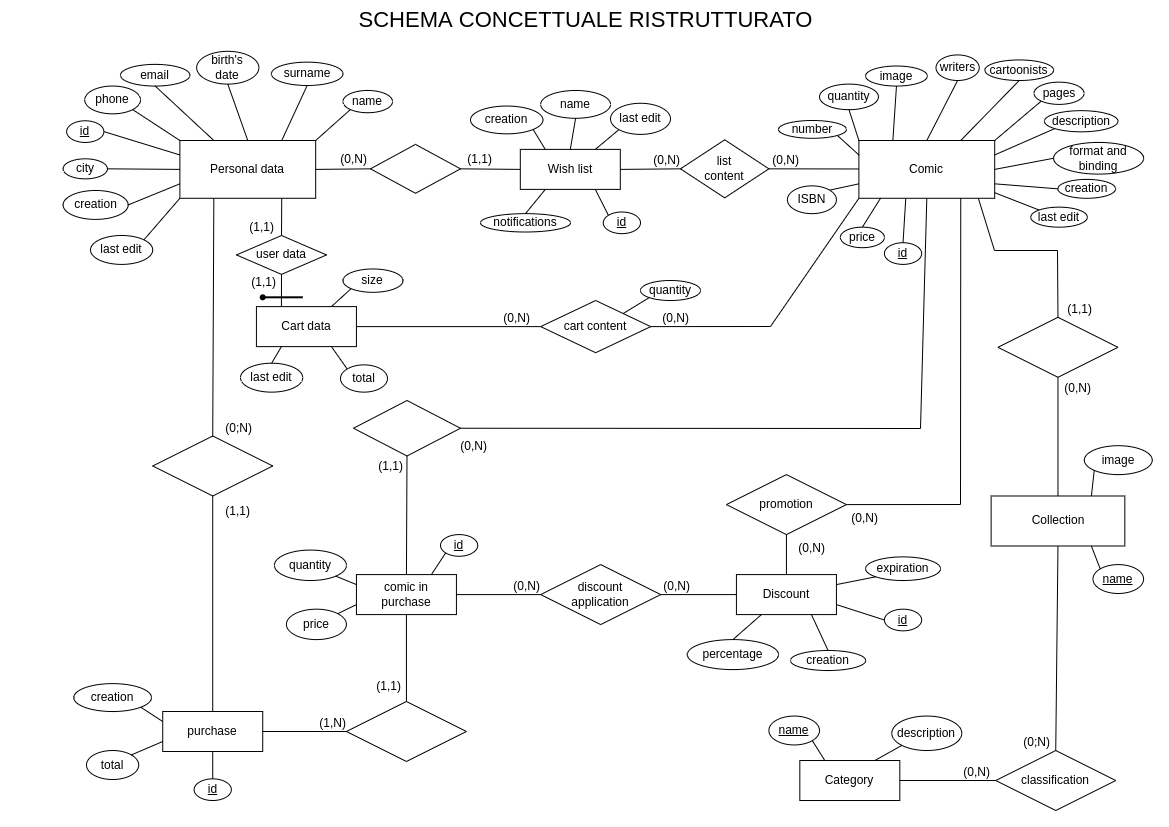
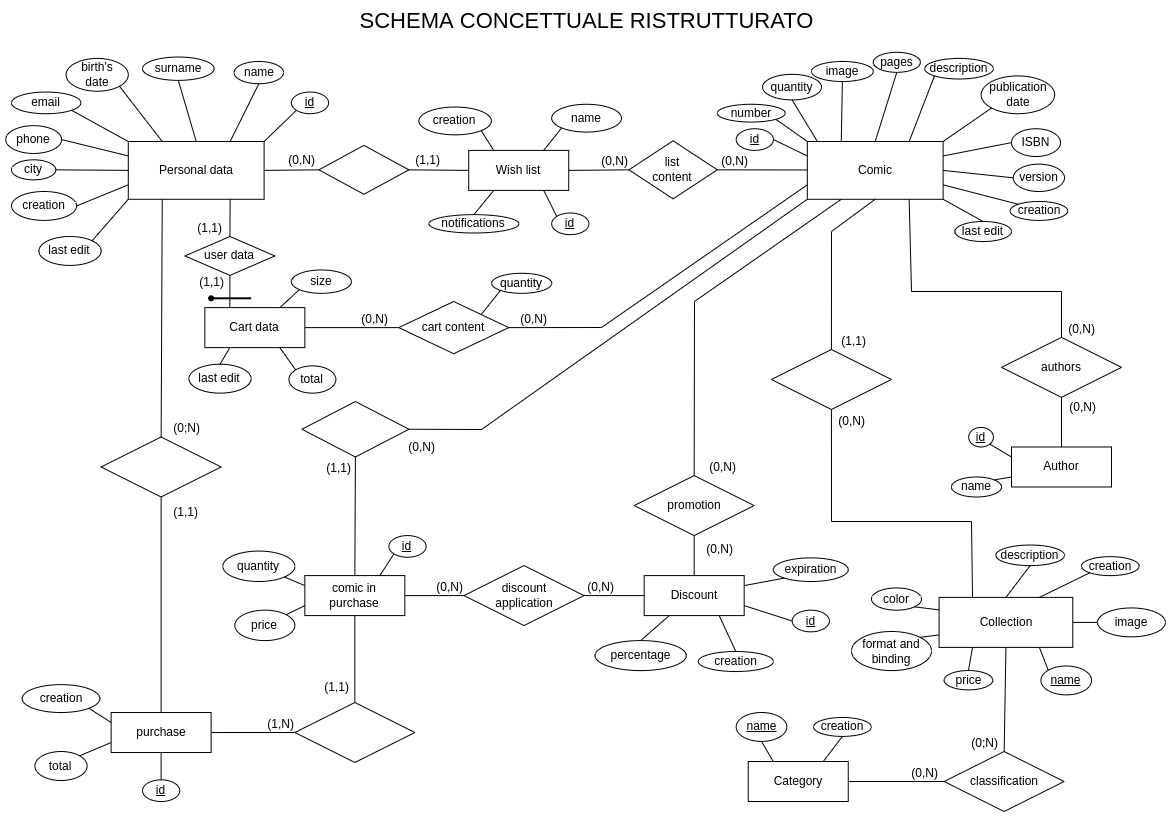
Modificato il database spostando molti degli attributi da comic a collection e creando l'entità author; Nel mapping Java bisogna fare la relazione che lega il cart a comic

diff --git a/src/main/java/im/enricods/ComicsStore/entities/Comic.java b/src/main/java/im/enricods/ComicsStore/entities/Comic.java
@@ -3,7 +3,6 @@ package im.enricods.ComicsStore.entities;
 import java.util.Date;
 import java.util.Set;
 
-import javax.persistence.Basic;
 import javax.persistence.Column;
 import javax.persistence.Entity;
 import javax.persistence.GeneratedValue;
@@ -27,25 +26,21 @@ import lombok.Data;
 
 @Data
 @Entity
-@Table(name = "comic", schema = "public")
+@Table(name = "comic")
 public class Comic {
     
     @Id
     @GeneratedValue(strategy = GenerationType.AUTO)
-    @Column(name = "id", nullable = false)
+    @Column(name = "id")
     private long id;
 
     @ManyToOne
     @JoinColumn(name = "collection")
     private Collection collection;
 
-    @Basic
+    
     @Column(name = "number", nullable = false)
     private int number;
-
-    @Basic
-    @Column(name = "price", nullable = false)
-    private float price;
 
     @ManyToMany
     @JoinTable(
@@ -55,35 +50,29 @@ public class Comic {
     )
     private Set<Discount> discounts;
 
-    @Basic
+    
     @Column(name = "quantity", nullable = false)
     private int quantity;
 
-    @Basic
+    
     @Column(name = "image", length = 100)
     private String image;
 
-    @Basic
-    @Column(name = "writers", length = 50)
-    private String writers;
+    @ManyToMany(mappedBy = "works")
+    private Set<Author> authors;
 
-    @Basic
-    @Column(name = "cartoonists", length = 50)
-    private String cartoonists;
-
-    @Basic
-    @Column(name = "formatAndBinding", length = 30)
-    private String formatAndBinding;
-
-    @Basic
     @Column(name = "pages")
     private int pages;
 
-    @Basic
+    @Temporal(TemporalType.DATE)
+    @Column(name = "publication_date")
+    private Date publicationDate;
+
+    
     @Column(name = "isbn", length = 13, unique = true, nullable = false)
     private String isbn;
 
-    @Basic
+    
     @Column(name = "description", length = 200)
     private String description;
 
@@ -92,13 +81,13 @@ public class Comic {
     @JsonIgnore
     private long version;
 
-    @Basic
+    
     @CreationTimestamp
     @Temporal(TemporalType.TIMESTAMP)
     @Column(name = "created_at", nullable = false)
     private Date createdAt;
 
-    @Basic
+    
     @Temporal(TemporalType.TIMESTAMP)
     @Column(name = "modified_at", nullable = false)
     private Date modifiedAt;

diff --git a/src/main/java/im/enricods/ComicsStore/entities/User.java b/src/main/java/im/enricods/ComicsStore/entities/User.java
@@ -3,7 +3,6 @@ package im.enricods.ComicsStore.entities;
 import java.util.Date;
 import java.util.Set;
 
-import javax.persistence.Basic;
 import javax.persistence.CascadeType;
 import javax.persistence.Column;
 import javax.persistence.Entity;
@@ -17,6 +16,7 @@ import javax.persistence.Temporal;
 import javax.persistence.TemporalType;
 
 import org.hibernate.annotations.CreationTimestamp;
+import org.hibernate.annotations.UpdateTimestamp;
 
 import lombok.Data;
 
@@ -30,37 +30,41 @@ public class User {
     @Column(name = "id", nullable = false)
     private long id;
 
-    @Basic
+    
     @Column(name = "first_name", nullable = false, length = 50)
     private String firstName;
 
-    @Basic
+    
     @Column(name = "last_name", nullable = false, length = 50)    
     private String lastName;
 
-    @Basic
+    @Temporal(TemporalType.DATE)
+    @Column(name = "birth_date", nullable = false)
+    private Date birthDate;
+
+    
     @Column(name = "email", nullable = false, unique = true, length = 90)
     private String email;
 
-    @Basic
+    
     @Column(name = "phone_number", length = 20)
     private String phoneNumber;
 
-    @Basic
+    
     @Column(name = "address", length = 50)
     private String address;
 
-    @Basic
+    
     @Column(name = "city", length = 30)
     private String city;
 
-    @Basic
+    
     @CreationTimestamp
     @Temporal(TemporalType.TIMESTAMP)
     @Column(name = "created_at", nullable = false)
     private Date createdAt;
 
-    @Basic
+    @UpdateTimestamp
     @Temporal(TemporalType.TIMESTAMP)
     @Column(name = "modified_at", nullable = false)
     private Date modifiedAt;
@@ -68,7 +72,7 @@ public class User {
     @OneToOne(mappedBy = "user")
     private Cart cart;
 
-    @OneToMany(/*targetEntity = WishList.class,*/ mappedBy = "owner")
+    @OneToMany( mappedBy = "owner")
     private Set<WishList> wishLists;
 
     @OneToMany(mappedBy = "buyer")

diff --git a/src/main/java/im/enricods/ComicsStore/entities/Category.java b/src/main/java/im/enricods/ComicsStore/entities/Category.java
@@ -1,13 +1,17 @@
 package im.enricods.ComicsStore.entities;
 
+import java.util.Date;
 import java.util.Set;
 
-import javax.persistence.Basic;
 import javax.persistence.Column;
 import javax.persistence.Entity;
 import javax.persistence.Id;
 import javax.persistence.ManyToMany;
 import javax.persistence.Table;
+import javax.persistence.Temporal;
+import javax.persistence.TemporalType;
+
+import org.hibernate.annotations.CreationTimestamp;
 
 import lombok.Data;
 
@@ -20,9 +24,10 @@ public class Category {
     @Column(name = "name", nullable = false, length = 50)
     private String name;
 
-    @Basic
-    @Column(name = "description",nullable = false, length = 200)
-    private String description;
+    @CreationTimestamp
+    @Temporal(TemporalType.TIMESTAMP)
+    @Column(name = "created_at",nullable = false)
+    private Date createdAt;
 
     @ManyToMany(targetEntity = Collection.class,  mappedBy = "categories")
     private Set<Collection> collections;

diff --git a/src/main/java/im/enricods/ComicsStore/entities/WishList.java b/src/main/java/im/enricods/ComicsStore/entities/WishList.java
@@ -3,7 +3,6 @@ package im.enricods.ComicsStore.entities;
 import java.util.Date;
 import java.util.Set;
 
-import javax.persistence.Basic;
 import javax.persistence.Column;
 import javax.persistence.Entity;
 import javax.persistence.GeneratedValue;
@@ -35,11 +34,9 @@ public class WishList {
     @JoinColumn(name = "user_id")
     private User owner;
 
-    @Basic
     @Column(name = "name", nullable = false, length = 70)
     private String name;
 
-    @Basic
     @Column(name = "notifications")
     private boolean notifications;
 
@@ -50,15 +47,9 @@ public class WishList {
     )
     private Set<Comic> content;
 
-    @Basic
     @CreationTimestamp
     @Temporal(TemporalType.TIMESTAMP)
     @Column(name = "created_at", nullable = false)
     private Date createdAt;
 
-    @Basic
-    @Temporal(TemporalType.TIMESTAMP)
-    @Column(name = "modified_at", nullable = false)
-    private Date modifiedAt;
-
-}
+}//WishList

diff --git a/src/main/java/im/enricods/ComicsStore/entities/Author.java b/src/main/java/im/enricods/ComicsStore/entities/Author.java
@@ -1,0 +1,37 @@
+package im.enricods.ComicsStore.entities;
+
+import java.util.Set;
+
+import javax.persistence.Column;
+import javax.persistence.Entity;
+import javax.persistence.GeneratedValue;
+import javax.persistence.GenerationType;
+import javax.persistence.Id;
+import javax.persistence.JoinTable;
+import javax.persistence.JoinColumn;
+import javax.persistence.ManyToMany;
+import javax.persistence.Table;
+
+import lombok.Data;
+
+@Data
+@Entity
+@Table(name = "author")
+public class Author {
+    
+    @Id
+    @GeneratedValue(strategy = GenerationType.AUTO)
+    @Column(name = "id")
+    private long id;
+
+    @Column(name = "name", nullable = false, length = 30)
+    private String name;
+
+    @ManyToMany
+    @JoinTable(name = "authors",
+        joinColumns = {@JoinColumn(name = "author")},
+        inverseJoinColumns = {@JoinColumn(name = "comic")}
+    )
+    private Set<Comic> works;
+    
+}//Author

diff --git a/src/main/java/im/enricods/ComicsStore/entities/Cart.java b/src/main/java/im/enricods/ComicsStore/entities/Cart.java
@@ -3,7 +3,6 @@ package im.enricods.ComicsStore.entities;
 import java.util.Date;
 import java.util.Set;
 
-import javax.persistence.Basic;
 import javax.persistence.Column;
 import javax.persistence.Entity;
 import javax.persistence.Id;
@@ -17,7 +16,7 @@ import lombok.Data;
 
 @Data
 @Entity
-@Table(name = "cart_data", schema = "public")
+@Table(name = "cart_data")
 public class Cart {
     
     @Id
@@ -28,15 +27,15 @@ public class Cart {
     @JoinColumn(name = "user_id")
     private User user;
 
-    @Basic
+    
     @Column(name = "total", nullable = false)
     private float total;
 
-    @Basic
+    
     @Column(name = "size", nullable = false)
     private int size;
 
-    @Basic
+    
     @Temporal(TemporalType.TIMESTAMP)
     @Column(name = "modified_at", nullable = false)
     private Date modifiedAt;

diff --git a/src/main/java/im/enricods/ComicsStore/entities/Collection.java b/src/main/java/im/enricods/ComicsStore/entities/Collection.java
@@ -2,7 +2,6 @@ package im.enricods.ComicsStore.entities;
 
 import java.util.Set;
 
-import javax.persistence.Basic;
 import javax.persistence.Column;
 import javax.persistence.Entity;
 import javax.persistence.Id;
@@ -23,13 +22,20 @@ public class Collection {
     @Column(name = "name", nullable = false, length = 50)
     private String name;
 
-    @Basic
     @Column(name = "image", length = 100)
     private String image;
    
-    @Basic
     @Column(name = "description", length = 1000)
     private String description;
+
+    @Column(name = "price", nullable = false)
+    private float price;
+
+    @Column(name = "color")
+    private boolean color;
+
+    @Column(name = "format_and_binding")
+    private String formatAndBinding;
 
     @OneToMany(mappedBy = "collection")
     private Set<Comic> comics;
